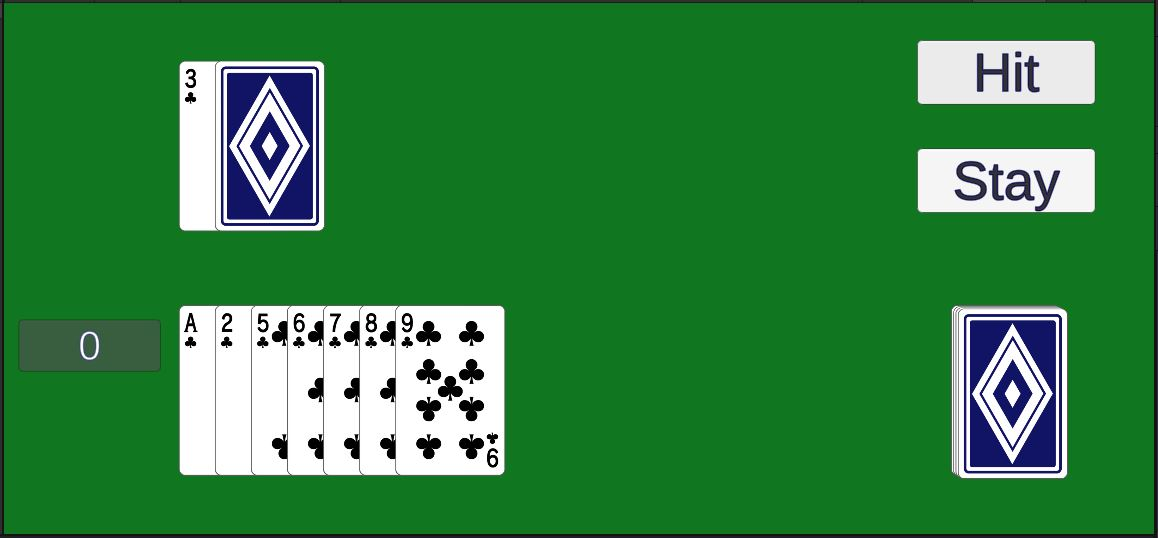
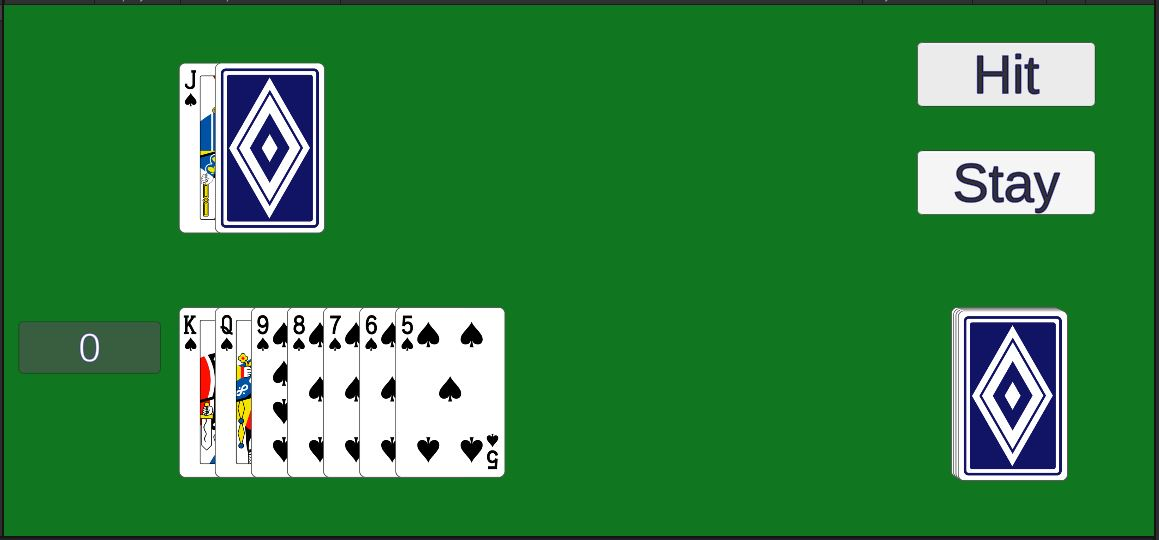
Working on lab01

diff --git a/lab01_03.md b/lab01_03.md
@@ -6,7 +6,7 @@ nav_order: 3
 ---
 
 # Deck.GetCard()
-In the class *Deck*, fill out the function *GetCard()*.
+In the class **Deck**, fill out the function `GetCard()`.
 ```
     public Card GetCard()
     {
@@ -21,13 +21,21 @@ In the class *Deck*, fill out the function *GetCard()*.
         return card;
     }
 ```
-* If there are no *Card*s left in the `m_card` List, `card` should return `null`.
+* If there are no **Card**s left in the `m_card` List, `card` should return `null`.
 * Otherwise, remove one `card` from the List `m_card`.
-* Use `SetActive` to activate that `card`'s `GameObject`.
+* Use `SetActive` to activate that `card`'s **GameObject**.
 * Return that.
 
+{: .test}
+Try it out. Hit Play In Editor.\
+![Try It](images/lab01/deal.jpg "Try It")
+
+{: .note}
+The order of the cards may vary depending on how you implemented the function.\
+We'll do shuffling later.
+
 # Game.PlayerHit()
-In the class *Game*, fill in the function *PlayerHit()*.
+In the class **Game**, fill in the function `PlayerHit()`.
 ```
     public void PlayerHit()
     {
@@ -36,13 +44,16 @@ In the class *Game*, fill in the function *PlayerHit()*.
         // if the player busts (score > 21), call PlayerStay()
     }
 ```
-* Call `GetCard` on the *Deck* to get a *Card*.
-* Add that *Card* to the player's *Hand*.
+* Call `GetCard` on the **Deck** to get a **Card**.
+* Add that **Card** to the player's **Hand**.
 * Call `UpdatePlayerScore` to calculate the player's new score.
 * If the player busts (score exceeds 21), call `PlayerStay` to end the player's turn.
 
 {: .test}
 Try it out. Hit Play In Editor.\
-You should be able to deal cards now.\
-You'll notice that the cards are in order, and the score doesn't work yet.
+The hit button should add cards to the player's hand.\
 ![Try It](images/lab01/player_hit.jpg "Try It")
+
+{: .note}
+We still haven't shuffled the deck.\
+The score doesn't work yet.

diff --git a/lab01_04.md b/lab01_04.md
@@ -6,7 +6,7 @@ nav_order: 4
 ---
 
 # Hand.Score()
-In the class *Hand*, fill out the function *Score()*.
+In the class **Hand**, fill out the function `Score()`.
 ```
     public int Score()
     {
@@ -19,8 +19,18 @@ In the class *Hand*, fill out the function *Score()*.
 * Aces are either worth 1 or 11 points. Use 11 points unless that would put you over 21 - then use 1.
 * Return the total score.
 
+{: .test}
+Now when you play it, the score should work.\
+If you've sorted it the way I have, you'll bust if you hit at all.\
+(You don't have to sort it my way.)
+
+{: .note}
+Going bust won't end the player's turn yet.\
+You programmed it to call `PlayerStay()`, but we haven't implemented that yet.\
+Let's get on that.
+
 # Game.PlayerStay()
-In the class *Game*, fill in the function *PlayerStay()*.
+In the class **Game**, fill in the function `PlayerStay()`.
 ```
     public void PlayerStay()
     {
@@ -40,4 +50,4 @@ The player's turn is over, so let's disable the player's buttons and let the dea
 
 {: .test}
 You Are Here!
-![Score Works](images/lab01/player_hit.jpg "Score Works")
+![Score Works](images/lab01/player_stay.jpg "Score Works")

diff --git a/lab01_05.md b/lab01_05.md
@@ -1,0 +1,29 @@
+---
+title: "Shuffle the Deck"
+parent: "Lab 01: Blackjack"
+has_children: false
+nav_order: 5
+---
+
+# Deck.Shuffle()
+In the class **Deck**, fill out the function `Shuffle()`.
+```
+    void Shuffle()
+    {
+        // TODO shuffle the deck
+    }
+```
+The simple way to shuffle a `List<>` in C# works like this:
+* Start off **n** as the number of cards in the deck
+* Choose a random card index from 0 to **n**.
+* Swap that card with the card at the end of the list
+* Reduce **n** by 1 so that last card isn't part of the shuffle anymore
+* Repeat until **n** hits 0 meaning every card has been shuffled
+
+{: .test}
+You Are Here
+![Finished](images/lab01/done.jpg "Finished")
+
+{: .note}
+This is the end of the basic requirements.\
+Push your code now before we move on to the next part.

diff --git a/lab01_01.md b/lab01_01.md
@@ -18,3 +18,7 @@ Open the Game scene.\
 It should look like this...
 ![Starting Project](images/lab01/starting_project.jpg "Starting Project")
 
+{: .test}
+If you hit Play In Editor, it should look like this...
+![Play In Editor](images/lab01/starting_play.jpg "Play In Editor")
+Nothing happens yet.
